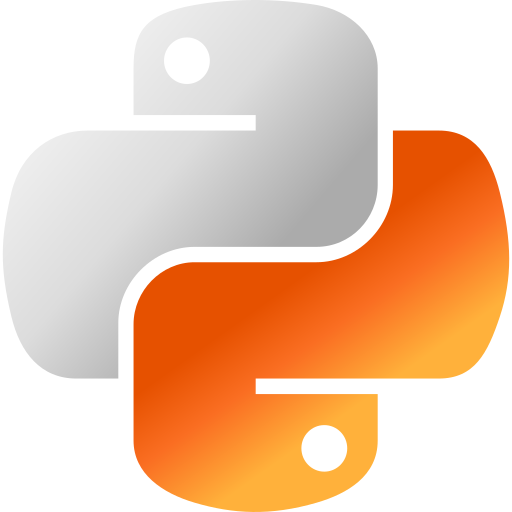
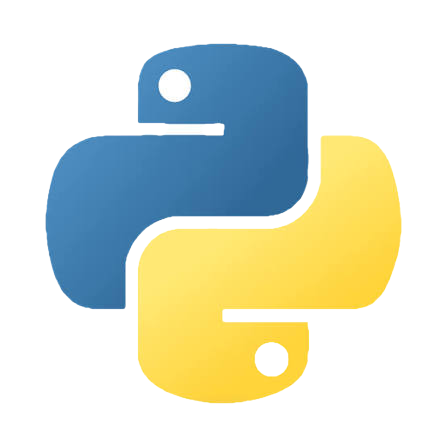
update post and index ui

diff --git a/templates/pages/view_post.html b/templates/pages/view_post.html
@@ -31,7 +31,7 @@
                     <!-- div to display post content -->
                     <div class="card mb-5 mt-2 col-12 col-md-10 col-lg-8 offset-lg-2
                         {% if answers | length < 1 %} offset-md-1 offset-lg-2 {% endif %}">
-                        <div class="row card-header header-bg">
+                        <div class="row card-header header-bg p-0">
                             {% if not post.Opened %}
                                 <span class="post-closed text-center animate__animated animate__fadeInDown animate__slower">
                                     Closed post
@@ -45,7 +45,7 @@
                                     src="{{url_for('uploaded_dev_images', path=post.author.Image)}}">
                             </div>
                             
-                            <div class="col d-flex justify-content-between">
+                            <div class="col d-flex justify-content-between mb-2">
                                 <div>
                                     {% for tag in post.Tag.split(' ')|unique %}
                                         <span class="language-badges badge bg-{{tag | lower}}">{{tag}}</span>
@@ -54,7 +54,7 @@
 
                                 <span class="text-light small-texts fw-lighter">
                                     By: <a href="{{url_for("search_posts")}}?tag=Null&author_id={{post.author.Id}}&page=1&list={{total_items}}" 
-                                        class="fs-5 text-light">
+                                        class="fs-6 text-light">
                                         {{post.author.First_Name}}
                                     </a>
                                 </span>

diff --git a/templates/pages/index.html b/templates/pages/index.html
@@ -184,7 +184,7 @@
             <div class="card mb-4" style=" width: 390px;">
                 <div class="row">
                     <div class="col-3 py-5">
-                        <img src="{{ url_for('static', path='/images/python.png') }}" class="rounded-start" 
+                        <img src="{{ url_for('static', path='/images/python-logo.png') }}" class="rounded-start" 
                             width="93" height="97" alt="Python">
                     </div>
 
@@ -222,7 +222,7 @@
             <div class="card mb-4" style=" width: 390px;">
                 <div class="row">
                     <div class="col-3 py-5">
-                        <img src="{{ url_for('static', path='/images/html.png') }}" class="rounded-start" 
+                        <img src="{{ url_for('static', path='/images/html-logo.png') }}" class="rounded-start" 
                             width="93" height="97" alt="HTML5">
                     </div>
 

diff --git a/static/styles/app.css b/static/styles/app.css
@@ -1541,7 +1541,11 @@ a[data-bs-toggle="collapse"] .bi-chevron-double-down {
     }
 
     .create_account_title{ font-size: 4.3rem; margin-top: -75px !important; }
-
+    .fs-2{
+        font-size: 15px !important;
+        font-weight: 600;
+    }
+    
     .new_dev_text{
         background-color: rgba(13, 13, 13, 0.908); 
         padding: 35px; 
